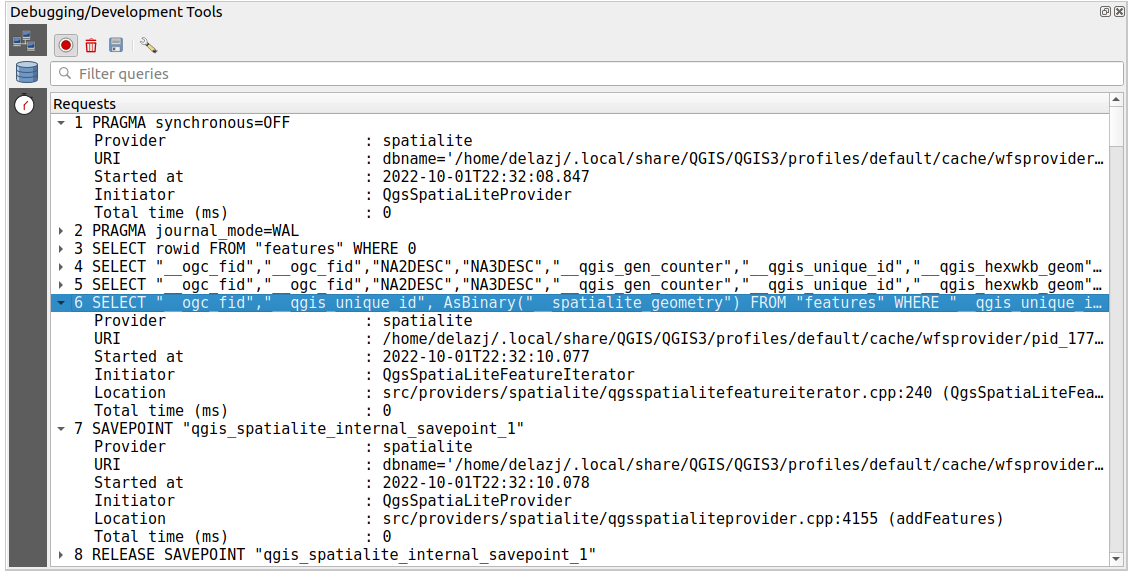
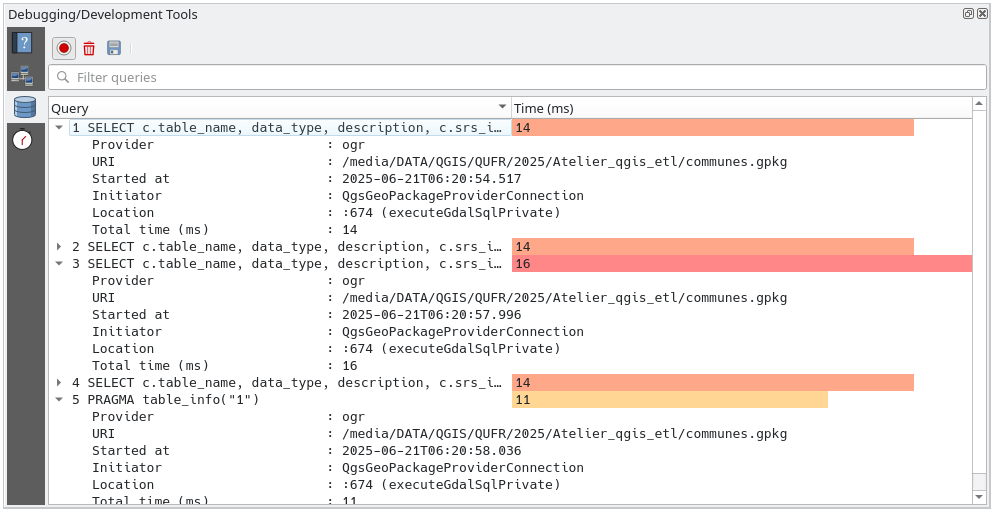
Add "API documentation" tab to the Debugging/Development tools panel
Also update the various screenshots of the panel

Changed region(s): [[0.0, 0.0, 0.998, 0.9922]]

diff --git a/docs/user_manual/introduction/general_tools.rst b/docs/user_manual/introduction/general_tools.rst
@@ -678,17 +678,32 @@ The :guilabel:`Debugging/Development Tools` panel (:kbd:`F12`) provides
 a unified place for handling and debugging actions within QGIS.
 Available tools are organized under following tabs:
 
+* |HelpContents| :guilabel:`API Documentation`: embeds developer oriented documentation
 * |networkAndProxy| :guilabel:`Network Logger`: records and displays network requests
   and interactions
 * |dbManager| :guilabel:`Query Logger`: logs SQL commands issued by data providers
   and duration of execution
 * |stopwatch| :guilabel:`Profiler`: provides load times for every actions
   in order to detect causes of slow down
-  
+
 .. note:: Plugin authors can extend the panel with custom tabs
  for debugging and developping their own plugins.
  This is done using :meth:`registerDevToolWidgetFactory
  <qgis.gui.QgisInterface.registerDevToolWidgetFactory>` method.
+
+
+API Documentation
+.................
+
+The |HelpContents| :guilabel:`API Documentation` tab can display either
+the |logo| :sup:`PyQGIS API documentation` or the |qt| :sup:`Qt API documentation`.
+These are embedded in the widget, allowing you to browse and search the docs without leaving QGIS.
+It is also the place you can display specific help page for objects or classes in your code sample;
+from the Python interactive console or text editor dialog, select or hover a text
+and press :kbd:`F1` or right-click and select |HelpContents| :sup:`Contextual help` to get its API help.
+If you wish to read the active page in the system web browser, then press |wms| :sup:`Open in web browser`.
+
+Read :ref:`contextual help <python_contextual_help>` for details on the widget configuration.
 
 Network Logger
 ..............
@@ -2440,6 +2455,8 @@ The values presented in the varying size assistant above will set the size
    :width: 1.5em
 .. |legend| image:: /static/common/legend.png
    :width: 1.2em
+.. |logo| image:: /static/common/logo.png
+   :width: 1.5em
 .. |mapIdentification| image:: /static/common/mActionMapIdentification.png
    :width: 1.5em
 .. |mapTips| image:: /static/common/mActionMapTips.png
@@ -2454,6 +2471,8 @@ The values presented in the varying size assistant above will set the size
    :width: 1em
 .. |osx| image:: /static/common/osx.png
    :width: 1em
+.. |qt| image:: /static/common/mIconQt.png
+   :width: 1.5em
 .. |rasterHistogram| image:: /static/common/rasterHistogram.png
    :width: 1.5em
 .. |record| image:: /static/common/mActionRecord.png
@@ -2516,6 +2535,8 @@ The values presented in the varying size assistant above will set the size
    :width: 1.5em
 .. |unchecked| image:: /static/common/unchecked.png
    :width: 1.3em
+.. |wms| image:: /static/common/mIconWms.png
+   :width: 1.5em
 .. |zoomActual| image:: /static/common/mActionZoomActual.png
    :width: 1.5em
 .. |zoomToLayer| image:: /static/common/mActionZoomToLayer.png
